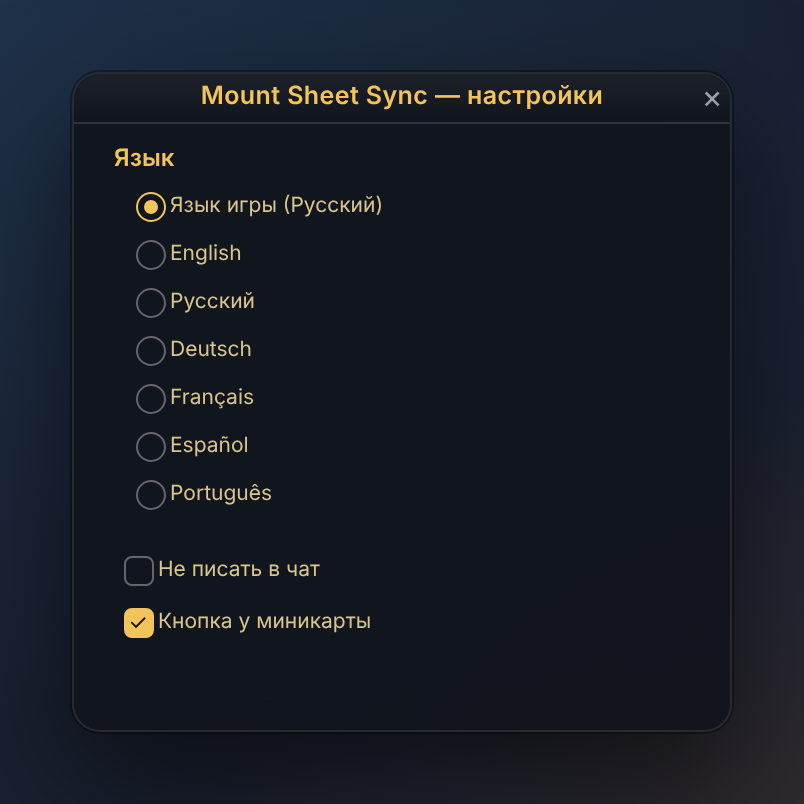
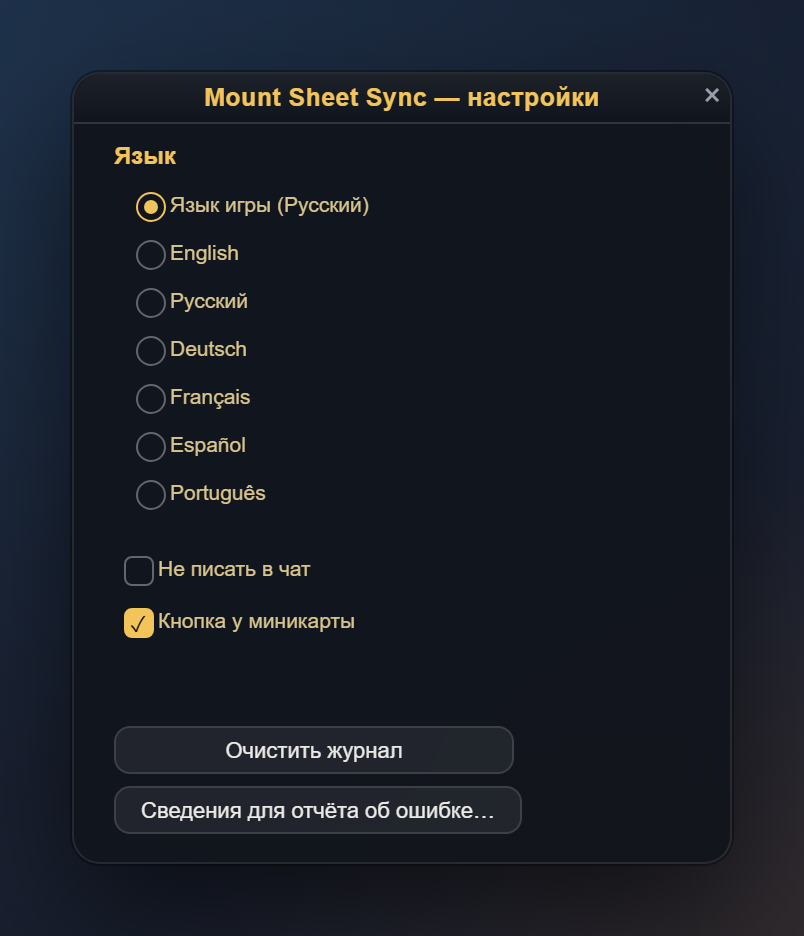
Addon 3.0.0: new screenshots; other characters found by name (class colour, own kills)
The sheet keys characters by name only, so other characters of this account were never matched: no class colour and no GUID, so their own kills did not tick their lists. Screenshots of the 3.0 window drawn from the real layout (render.html learned ScrollBox, textures, the gear). Tests: C locale on Windows (Lua lower() broke Cyrillic under cp1251).

diff --git a/tools/screens/render.html b/tools/screens/render.html
@@ -70,6 +70,7 @@
   .f-GameFontNormalSmall { color: #d9c68e; font-size: 10.5px; }
   .f-GameFontDisableSmall { color: var(--muted); font-size: 9.6px; }
   .f-none { color: var(--text); font-size: 11.5px; }
+  .gear { color: var(--muted); font-size: 18px; line-height: 1; display: flex; align-items: center; justify-content: center; }
   .tick {
     display: inline-flex; width: 12px; height: 12px; border-radius: 50%; background: #3fb36b; color: #08140c;
     font-size: 9px; font-weight: 700; align-items: center; justify-content: center; vertical-align: -1px;
@@ -152,6 +153,9 @@ function rect(i) {
   if (x.scrollChildOf !== null) {
     const s = rect(x.scrollChildOf);
     res = { l: s.l, t: s.t, r: s.l + (x.w || (s.r - s.l)), b: s.t + (x.h || 2000) };
+  } else if (x.points.length && x.points[0].point === "ALL") {   // SetAllPoints
+    const s = relRect(x, x.points[0].rel);
+    res = s ? { l: s.l, t: s.t, r: s.r, b: s.b } : null;
   } else if (!x.points.length) {
     if (x.parent === "UIParent") return null;
     const p = rect(x.parent);
@@ -184,6 +188,13 @@ function rect(i) {
   }
   rects[i] = res;
   return res;
+}
+
+// a ScrollBox whose shown rows go below its bottom edge
+function overflows(box) {
+  const b = rect(box);
+  if (!b) return false;
+  return L.some((y, k) => y.parent === box && y.shown && rect(k) && rect(k).b > b.b + 1);
 }
 
 // build the DOM along the parent chain, so scroll frames clip their content
@@ -223,8 +234,18 @@ function build(i) {
   else if (x.type === "CheckButton") {
     el.classList.add("check"); if (x.radio) el.classList.add("radio"); if (x.checked) el.classList.add("on");
     const box = document.createElement("i"); if (x.checked && !x.radio) box.textContent = "✓"; el.appendChild(box);
-  } else if (x.type === "ScrollFrame") el.classList.add("scroll");
+  } else if (x.type === "ScrollFrame" || tmpl === "WowScrollBoxList") el.classList.add("scroll");
   else if (x.type === "Slider") el.classList.add("bar");
+  else if (tmpl === "MinimalScrollBar") {
+    // the game hides it while the list fits (ScrollUtil.AddManagedScrollBarVisibilityBehavior)
+    if (!overflows(x.points[0].rel)) { nodes[i] = null; return null; }
+    el.classList.add("bar");
+  } else if (x.type === "Texture") {
+    if (x.layer === "HIGHLIGHT") { nodes[i] = null; return null; }   // only under the mouse
+    if (x.color) el.style.background = "rgba(" + x.color.slice(0, 3).map(c => Math.round(c * 255)).join(",") + "," + x.color[3] + ")";
+    else if (/Gear/.test(x.texture || "")) { el.classList.add("gear"); el.textContent = "⚙"; }
+    else { nodes[i] = null; return null; }
+  }
   else if (x.type === "FontString") {
     // a button's own label is drawn by the button
     const p = L[x.parent];

diff --git a/tools/tests/test_addon_left.py b/tools/tests/test_addon_left.py
@@ -6,6 +6,7 @@ Usage: test_addon_left.py [<SheetData.lua written by the exe>] [<layout out json
 """
 import json
 import os
+import re
 import subprocess
 import sys
 import time
@@ -100,7 +101,16 @@ C_MountJournal = {
   end,
 }
 function Advance(sec) MOCK.now = MOCK.now + sec; MOCK.gt = MOCK.gt + sec; MOCK.untilReset = MOCK.untilReset - sec end
-MountSheetSyncDB = { version = 1, kills = {} }
+-- characters that logged in on this account before (class for the colours on the left, GUID for their own kills)
+MountSheetSyncDB = { version = 1, kills = {}, chars = {
+  ["Эйра-Ревущий фьорд"] = { name = "Эйра", realm = "Ревущий фьорд", classFile = "HUNTER" },
+  ["Элтара-Ревущий фьорд"] = { name = "Элтара", realm = "Ревущий фьорд", classFile = "MAGE", guid = "Player-1602-0E1715" },
+  ["Мирна-Ревущий фьорд"] = { name = "Мирна", realm = "Ревущий фьорд", classFile = "PRIEST" },
+  ["Каэлия-Ревущий фьорд"] = { name = "Каэлия", realm = "Ревущий фьорд", classFile = "WARLOCK" },
+  ["Эллин-Ревущий фьорд"] = { name = "Эллин", realm = "Ревущий фьорд", classFile = "PALADIN" },
+} }
+RAID_CLASS_COLORS = { HUNTER = { colorStr = "ffaad372" }, MAGE = { colorStr = "ff3fc7eb" }, PRIEST = { colorStr = "ffffffff" },
+                      WARLOCK = { colorStr = "ff8788ee" }, PALADIN = { colorStr = "fff48cba" } }
 """ % (NOW, UNTIL_RESET))
 g = L.globals()
 
@@ -216,8 +226,12 @@ def shown_rows():
     return [str(f.text._text) for f in pool(16)]
 
 
+def plain(text):
+    return re.sub(r"\|c[0-9a-fA-F]{8}|\|r", "", str(text))
+
+
 def char_rows():
-    return [(str(f.name._text), str(f.count._text), bool(f.sel._shown)) for f in pool(20)]
+    return [(plain(f.name._text), str(f.count._text), bool(f.sel._shown)) for f in pool(20)]
 
 
 check("two ScrollBox lists with a scroll bar each", len(boxes(16)) == 1 and len(boxes(20)) == 1 and boxes(16)[0]._managedBar)
@@ -249,13 +263,33 @@ box = boxes(16)[0]
 inits = box._inits
 win.Hide(win); win.Show(win); g.RunTimers()
 check("reopening the window with nothing changed rebuilds no rows", box._inits == inits, (inits, box._inits))
-eltara = [f for f in pool(20) if str(f.name._text) == "Элтара"][0]
+eltara = [f for f in pool(20) if plain(f.name._text) == "Элтара"][0]
 eltara.MockClick(eltara); g.RunTimers()
 rows = shown_rows()
 check("click on Элтара: her «Осталось» (12 of 16; Эйра's kills do not count)", rows[0].startswith("|cff8c8c8cОсталось 12 из 16"), rows[:1])
 check("…she is selected on the left", [c[0] for c in char_rows() if c[2]] == ["Элтара"], char_rows())
 check("…no «не фармлю» menu on another character's rows", not [f for f in pool(16) if f.elem.entry is not None])
 check("…the tab title still counts the current character", tabs[0]._text == "Осталось (24)", tabs[0]._text)
+check("…her name in her class colour: the sheet's key is just «элтара», found among this account's characters",
+      str(eltara.name._text) == "|cff3fc7ebЭлтара|r", str(eltara.name._text))
+L.execute("MSS_NS = ...", ns)
+L.execute("""
+local r
+for _, c in ipairs(MSS_NS.GetAllRemaining()) do if c.name == "Элтара" then r = c.r end end
+for _, e in ipairs(r.items) do
+  if not e.done and e.item.kind == "world" then
+    table.insert(MountSheetSyncDB.kills, { id = "M-eltara-test", kind = "manual", boss = e.item.boss, char = "Элтара",
+      charKey = "Player-1602-0E1715", time = MOCK.now, weekEnd = MountSheetSyncDB.kills[1].weekEnd })
+    break
+  end
+end
+""")
+L.execute("MSS_NS.OnChange()")   # what a new record does in the game: the open window refreshes
+g.RunTimers()
+check("…a kill Элтара made on this account (her GUID) ticks her own list", shown_rows()[0].startswith("|cff8c8c8cОсталось 11 из 16"),
+      shown_rows()[:1])
+L.execute("table.remove(MountSheetSyncDB.kills)")
+g.RunTimers()
 tabs[1].MockClick(tabs[1]); g.RunTimers()
 rows = shown_rows()
 summ = ns.GetSummary()
@@ -272,7 +306,7 @@ names_row = pool(16)[3]
 names_row._scripts.OnEnter(names_row)
 tt = [str(g.GameTooltip.lines[i]) for i in range(1, len(g.GameTooltip.lines) + 1)]
 check("…hover: every name in the tooltip", tt[1] == ", ".join(str(first.names[i]) for i in range(1, len(first.names) + 1)), tt)
-eira = [f for f in pool(20) if str(f.name._text) == "Эйра"][0]
+eira = [f for f in pool(20) if plain(f.name._text) == "Эйра"][0]
 eira.MockClick(eira); g.RunTimers()
 check("click on a character from another tab opens his «Осталось»", win.selectedTab == 1 and shown_rows()[0].startswith("|cff8c8c8cОсталось 24 из 36"))
 tabs[2].MockClick(tabs[2]); g.RunTimers()
@@ -318,6 +352,9 @@ def dump_layout(root, path):
                        "checked": bool(x._checked) if x._type == "CheckButton" else None,
                        "title": str(x._title) if x._title is not None else None,
                        "radio": x._type == "CheckButton" and LUA_RAWGET(x, "code") is not None,
+                       "layer": x._layer if x._type == "Texture" else None,
+                       "texture": str(x._texture) if x._type == "Texture" and x._texture is not None else None,
+                       "color": [x._color[k] for k in range(1, 5)] if x._type == "Texture" and x._color is not None else None,
                        "parent": ref(x._parent) if i else "UIParent", "points": pts, "scrollChildOf": None})
     for i, x in enumerate(export):
         if x._type == "ScrollFrame" and x._scrollChild is not None:
@@ -328,6 +365,8 @@ def dump_layout(root, path):
 tabs[0].MockClick(tabs[0]); g.RunTimers()
 dump_layout(win, OUT_LAYOUT)
 LAYOUT_DIR = os.path.dirname(os.path.abspath(OUT_LAYOUT))
+tabs[1].MockClick(tabs[1]); g.RunTimers()
+dump_layout(win, os.path.join(LAYOUT_DIR, "layout_all.json"))
 tabs[3].MockClick(tabs[3]); g.RunTimers()
 dump_layout(win, os.path.join(LAYOUT_DIR, "layout_log.json"))
 g.SlashCmdList["MOUNTSHEETSYNC"]("settings"); g.RunTimers()

diff --git a/tools/tests/paths.py b/tools/tests/paths.py
@@ -1,6 +1,12 @@
 """Where things are in the repository, and where the tests put their scratch files (MSS_TEST_TMP)."""
+import locale
 import os
 import tempfile
+
+# Lua's string.lower works byte by byte through the C locale. Python on Windows switches LC_CTYPE to the system
+# code page (cp1251 on a Russian Windows), where UTF-8 bytes of Cyrillic count as letters and get "lowered" into
+# garbage. The game runs Lua in the "C" locale — so do the tests (every addon test imports this module first).
+locale.setlocale(locale.LC_CTYPE, "C")
 
 HERE = os.path.dirname(os.path.abspath(__file__))
 ROOT = os.path.abspath(os.path.join(HERE, "..", ".."))

diff --git a/tools/screens/render.py b/tools/screens/render.py
@@ -16,6 +16,7 @@ OUT = os.path.join(ROOT, "docs", "screens")
 SCREENS = [
     # file, layout, selected tab, buttons drawn as primary
     ("addon-remaining.png", "layout_left.json", "Осталось", ["Отправить в таблицу"]),
+    ("addon-all.png", "layout_all.json", "Все персонажи", ["Отправить в таблицу"]),
     ("addon-log.png", "layout_log.json", "Журнал", ["Отправить в таблицу"]),
     ("addon-settings.png", "layout_settings.json", "", []),
 ]

diff --git a/README.ru.md b/README.ru.md
@@ -20,9 +20,9 @@
 
 ## Как это выглядит
 
-| «Осталось» на неделе | Журнал | Настройки |
+| «Осталось» любого персонажа | Все персонажи | Настройки |
 | --- | --- | --- |
-| ![Осталось](docs/screens/addon-remaining.png) | ![Журнал](docs/screens/addon-log.png) | ![Настройки](docs/screens/addon-settings.png) |
+| ![Осталось](docs/screens/addon-remaining.png) | ![Все персонажи](docs/screens/addon-all.png) | ![Настройки](docs/screens/addon-settings.png) |
 
 Окно аддона (русский клиент, примерные персонажи). Нарисовано по настоящей разметке аддона — те же окна, размеры и
 тексты, что он создаёт в игре, — скриптом `tools/screens/render.py`; в игре окно выглядит в стиле вашего интерфейса.

diff --git a/README.md b/README.md
@@ -26,9 +26,9 @@ Portuguese spreadsheets.
 
 ## Screenshots
 
-| “Remaining” this week | Log | Settings |
+| “Remaining” of any character | All characters | Settings |
 | --- | --- | --- |
-| ![Remaining](docs/screens/addon-remaining.png) | ![Log](docs/screens/addon-log.png) | ![Settings](docs/screens/addon-settings.png) |
+| ![Remaining](docs/screens/addon-remaining.png) | ![All characters](docs/screens/addon-all.png) | ![Settings](docs/screens/addon-settings.png) |
 
 The addon window (Russian game client, sample characters). Drawn from the addon's real layout — the same frames,
 sizes and texts it creates in the game — with `tools/screens/render.py`; the in-game look follows your UI.
